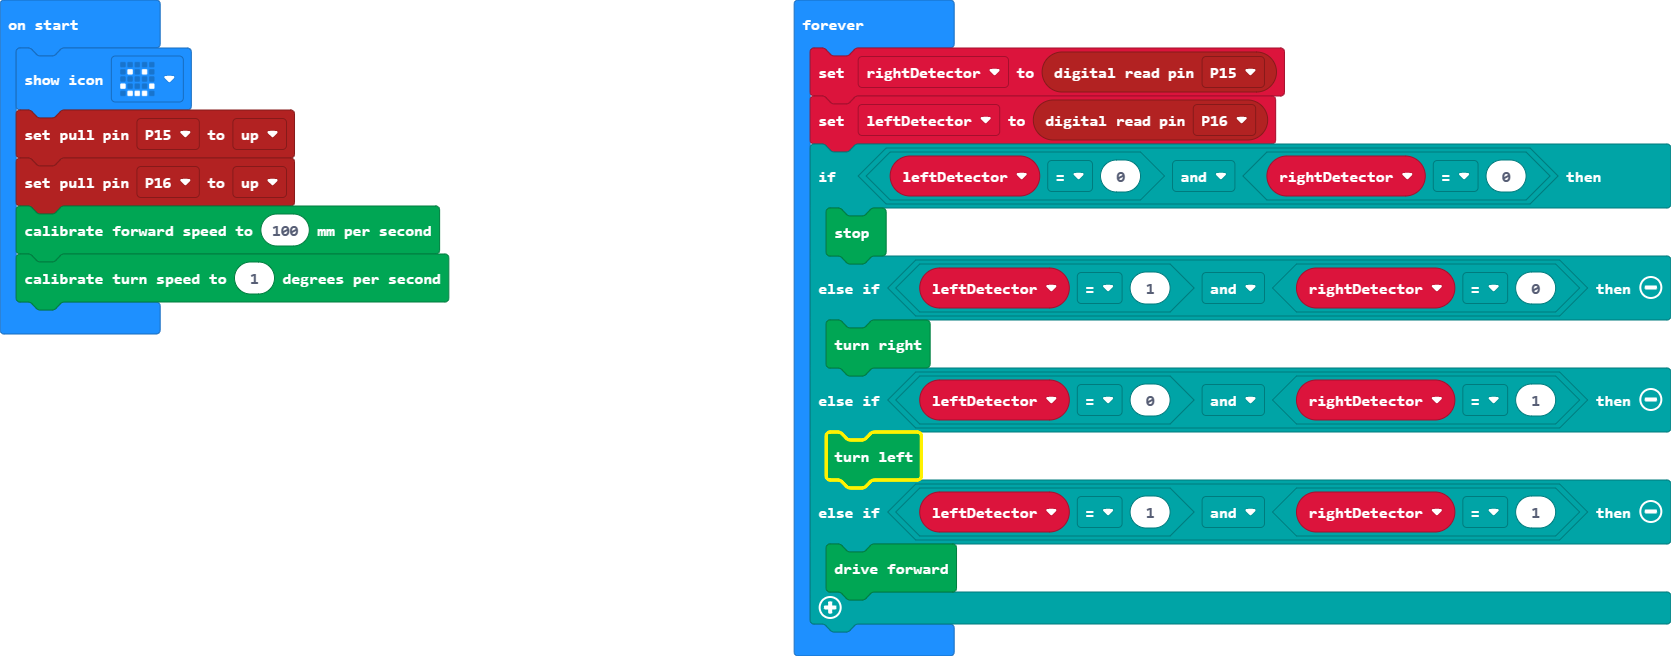
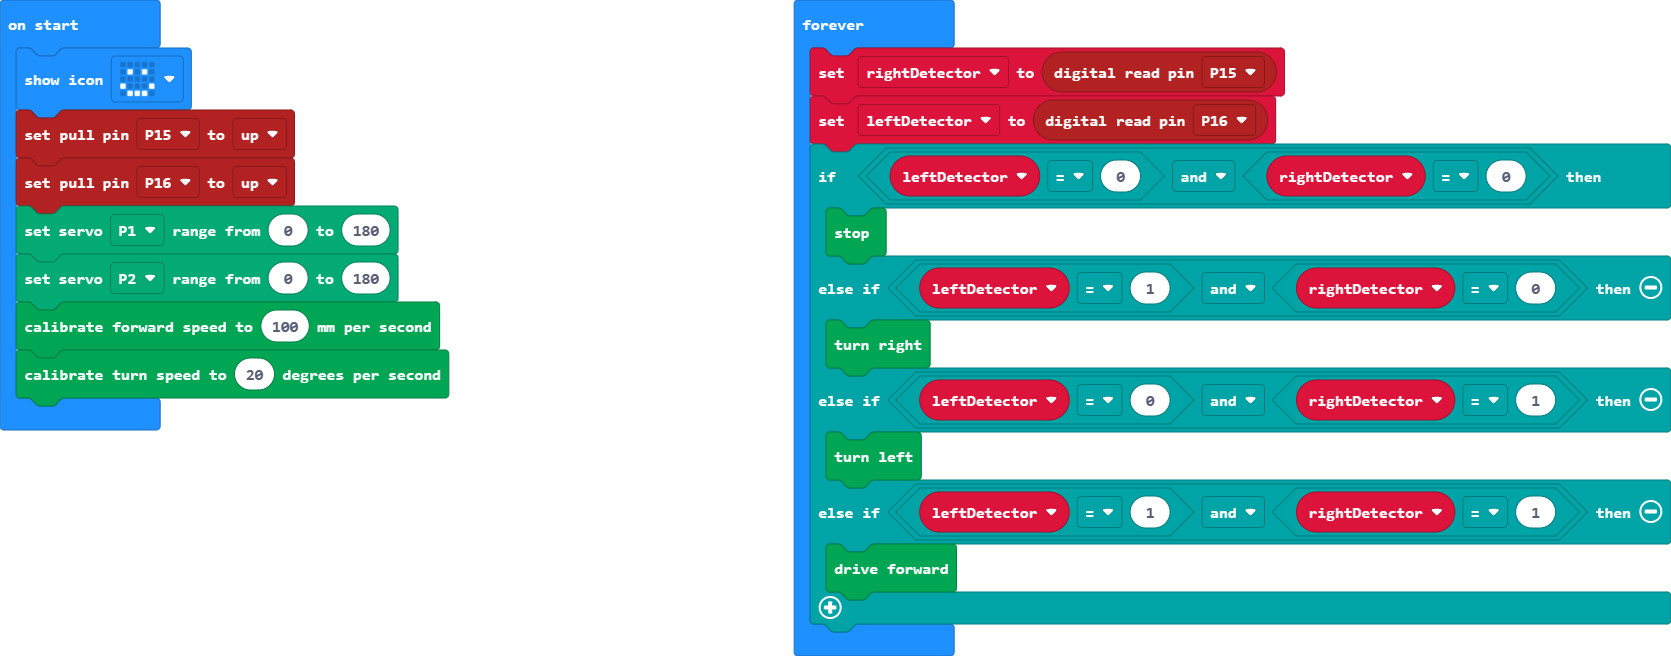
Update pxt.json, main.blocks, main.ts

diff --git a/main.ts b/main.ts
@@ -6,8 +6,10 @@ let rightDetector = 0
 basic.showIcon(IconNames.Happy)
 pins.setPull(DigitalPin.P15, PinPullMode.PullUp)
 pins.setPull(DigitalPin.P16, PinPullMode.PullUp)
+servos.P1.setRange(0, 180)
+servos.P2.setRange(0, 180)
 kitronik_servo_lite.setDistancePerSecond(100)
-kitronik_servo_lite.setDegreesPerSecond(1)
+kitronik_servo_lite.setDegreesPerSecond(20)
 basic.forever(function () {
     rightDetector = pins.digitalReadPin(DigitalPin.P15)
     leftDetector = pins.digitalReadPin(DigitalPin.P16)
